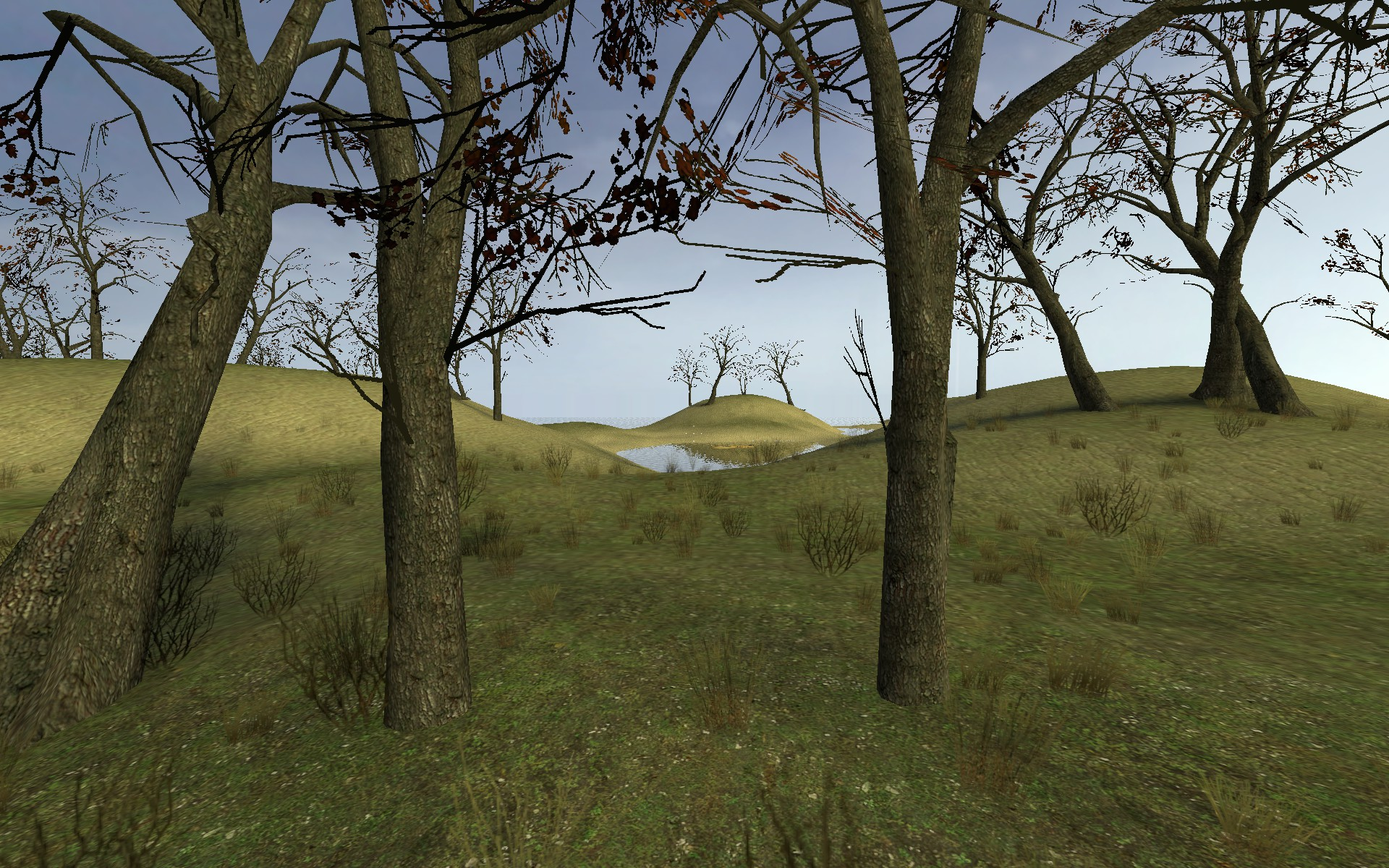
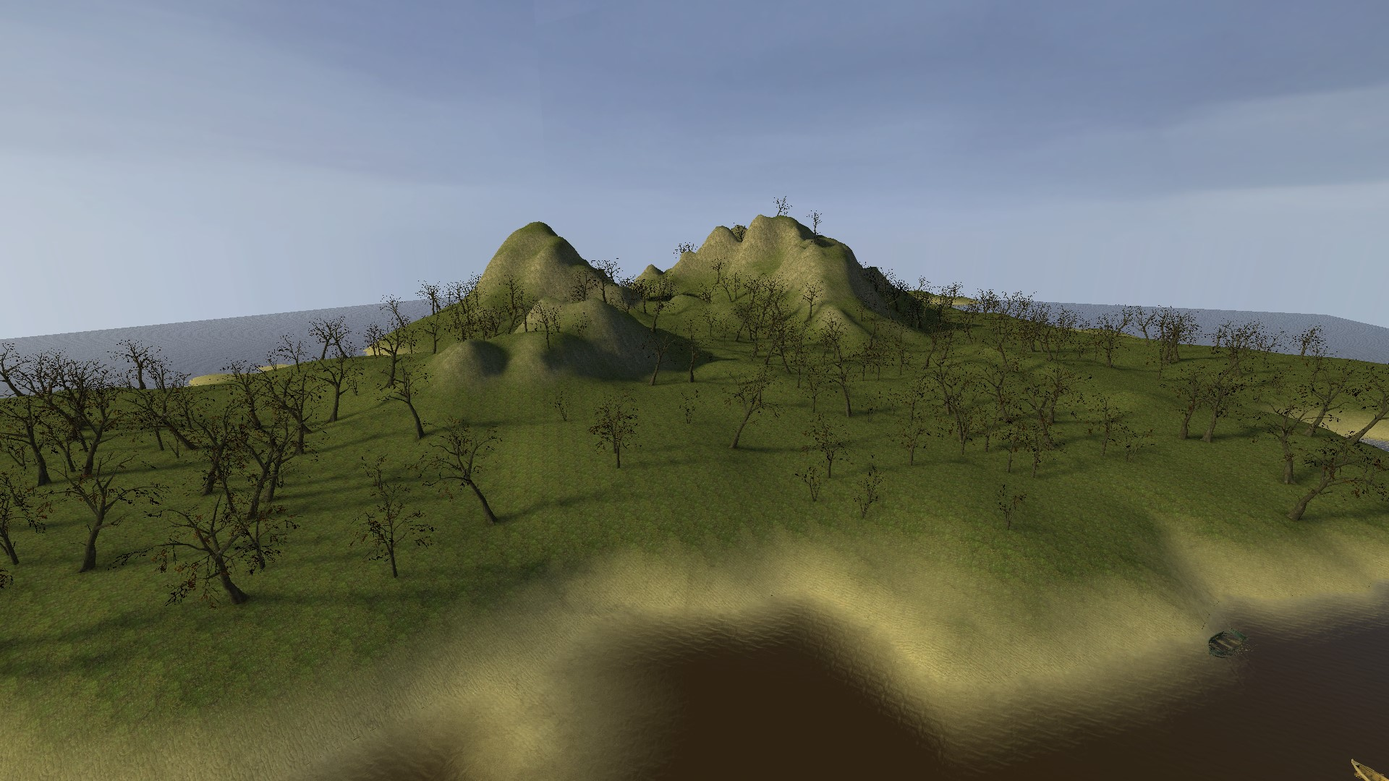
Expanded DisplacementMap to have visibility-blocking nodraw brushes.
Changed Heightmap example to show this off.

Also, added functions to get brushes in a DisplacementMap that jut above a certain height.

diff --git a/examples/heightmap.py b/examples/heightmap.py
@@ -16,7 +16,7 @@ import math
 
 
 def slope_alphas(dm):
-    """Set a DisplacementMap's alpha value based on it's slope and the water level"""
+    """Set a DisplacementMap's alpha value based on its slope and the water level"""
 
     # Calculate the alphas for the displacement map. We could have just as easily read this in from the image.
     for x in range(image_size - 1):
@@ -24,15 +24,22 @@ def slope_alphas(dm):
             h = dm[x, y]
             # Start with the assumption that this is straight sand
             a = 0
-            # If we're above the water, then the alpha value will equal the height above the water, meaning that areas
-            # 255 units above water-level will be pure grass
+            # If we're above the water, then the alpha value will equal the height above the water (* 2), meaning that
+            # areas 128 units above water-level will be pure grass
             if h > water_height:
-                a = h - water_height
+                a = (h - water_height) * 2
             if a > 255:
                 a = 255
-            # Subtract 3 times the angle (as 180 degrees = 255 alpha units) from the alpha value
-            # This way, steeper areas appear sandier.
-            a -= dm.get_slope((x, y)) * (255 / math.pi) * 3
+
+            # Get the angle of the slope here
+            slope_angle = math.degrees(dm.get_slope((x, y)))
+
+            # Add a sharp decrease in alpha around 45 degrees, so that unclimbable areas are visible
+            if slope_angle > 30 and slope_angle < 60:
+                a -= (slope_angle - 30) * 7
+            elif slope_angle >= 60:
+                a -= (slope_angle - 60) * 2 + 210
+
             if a < 0:
                 a = 0
             # Finally, we set the actual value to what we've determined
@@ -40,11 +47,13 @@ def slope_alphas(dm):
 
 def generate_scatter(dm):
     """Generate trees above the waterline, and boats near the shore."""
-    # This section places something on the surface every few units -- good for ensuring that the get_height method works
+    # This section places something on the surface every few units -- good for testing out the get_height method
     scatter_offset = 128
     for x in range((map_center[0] - map_size[0] // 2) + scatter_offset, (map_center[0] + map_size[0] // 2), scatter_offset):
         for y in range((map_center[1] - map_size[1] // 2) + scatter_offset, (map_center[1] + map_size[1] // 2),
                        scatter_offset):
+
+            slope_angle = math.degrees(dm.get_slope(dm.get_relative_position((x,y))))
             h = ground.get_height((x, y))
 
             if water_height - 64 < h < water_height - 32 and random.randrange(20) == 0:
@@ -52,8 +61,8 @@ def generate_scatter(dm):
                 base.PropPhysics(m, origin=types.Origin(x, y, water_height + 8),
                                  angles=types.Origin(0, random.randrange(360), 0),
                                  model="models/props_canal/boat001{0}.mdl".format(("a", "b")[random.randrange(2)]))
-            elif water_height + 128 < h and random.randrange(20) == 0:
-                # We have an area somewhat away from the shore, so we can put a tree here.
+            elif water_height + 128 < h and random.randrange(15) == 0 and slope_angle < 30:
+                # We have a flat area somewhat away from the shore, so we can put a tree here.
                 base.PropStatic(m, origin=types.Origin(x, y, h - 3),
                                 model="models/props_foliage/tree_deciduous_0{0}a.mdl".format(random.randrange(3) + 1),
                                 angles=types.Origin(0, random.randrange(360), 0), skin=1)
@@ -99,19 +108,21 @@ def create_helicopter(m):
 
 m = vmf.ValveMap()
 
-heightmap_range = 1024
+heightmap_range = 1024 * 4
 
 displacement_height_scale = heightmap_range / 255
 
-map_size = ((64 + 32) * 256, (64 + 32) * 256)
+displacements_per_side = 20
+
+# We want the size of displacements to be multiples of 1024 because that gives VVIS an easier time of it
+map_size = (1024*displacements_per_side, 1024*displacements_per_side)
 map_height = heightmap_range + (1024 * 2)
-water_height = 256
+water_height = 512
 
 # Environment and lighting
 # Sun angle	S Pitch	Brightness		Ambience
 # 0 225 0	 -25	 254 242 160 400	172 196 204 80
 
-displacements_per_side = 32
 
 d_x_size = map_size[0] / displacements_per_side
 d_y_size = map_size[1] / displacements_per_side
@@ -123,7 +134,7 @@ power = 3
 
 image_size = 2 ** power * displacements_per_side + 1
 
-heightmap_file = "examples/height.png"
+heightmap_file = "height4.png"
 
 # Open up the source image and resize it to be the number of displacement points
 image = Image.open(heightmap_file).resize((image_size, image_size), Image.BICUBIC).convert('L')
@@ -159,7 +170,7 @@ disp_org = types.Vertex(map_center[0], map_center[1], -16)  # types.Vertex(map_s
 # Create a DisplacementMap to act as the ground.
 ground = DisplacementMap(source=new_source, source_alphas=alphas, origin=disp_org,
                          size=types.Vertex(map_size[0], map_size[1], 32), x_subdisplacements=displacements_per_side,
-                         y_subdisplacements=displacements_per_side, power=power)
+                         y_subdisplacements=displacements_per_side, power=power, add_nodraw_brush=True)
 m.add_solid(ground)
 
 # We choose a texture that supports alpha blending, to show off that feature.
@@ -171,6 +182,10 @@ slope_alphas(ground)
 
 # Create the displacement brushes from the displacement map.
 ground.realize()
+
+# Change all the high displacements to a material that has rocks instead of sand. (This value is carefully selected)
+for block in ground.get_brushes_above_level(1096):
+    block.set_material("nature/blendrocksgrass006a")
 
 # Create the trees and boats.
 generate_scatter(ground)
@@ -194,12 +209,16 @@ m.add_solid(water)
 # Enclosing maps with big, open skyboxes like the one we just made is inefficient because we have a bunch of visleaves
 #   touching each other. Instead of letting vvis.exe check all of them, we just tell it they're all connected via
 #   a func_viscluster
-# (we create two, one at the top of the map, and one at the bottom. this is because the water brush splits the visleafs)
-for h in (map_height - 16, 16):
-    viscluster = base.FuncViscluster(m)
-    viscluster_brush = skybox.get_level_brush(h, 32)
-    viscluster_brush.set_material('tools/toolstrigger')
-    viscluster.children.append(viscluster_brush)
+viscluster = base.FuncViscluster(m)
+viscluster_brush = skybox.get_level_brush(map_height - 16, 32)
+viscluster_brush.set_material('tools/toolstrigger')
+viscluster.children.append(viscluster_brush)
+
+# We want to chop the visleaves in half, so that the mountains in the middle can actually block visibility.
+hint_brush = skybox.get_level_brush(1450,4)
+hint_brush.set_material("tools/toolsskip")
+hint_brush.bottom().material = "tools/toolshint"
+m.add_solid(hint_brush)
 
 
 # Add the spawnpoint, at ground level, at the center of the map
@@ -207,7 +226,9 @@ player_origin = types.Origin(map_center[0], map_center[1], ground.get_height(map
 spawn = base.InfoPlayerStart(m, origin=player_origin)
 suit = hl2.ItemSuit(m, origin=player_origin)
 
-airboat_spawn = (map_center[0] + 512, map_center[1])
+
+
+airboat_spawn = (map_center[0] + 650, map_center[1])
 airboat = hl2.PropVehicleAirboat(m, origin=types.Origin(airboat_spawn[0], airboat_spawn[1],
                                                         ground.get_height(airboat_spawn) + 32), EnableGun=1)
 

diff --git a/vmflib2/tools.py b/vmflib2/tools.py
@@ -160,7 +160,7 @@ class DisplacementMap:
     """
 
     def __init__(self, source, source_alphas=None, origin=types.Vertex(), size=types.Vertex(), x_subdisplacements=4,
-                 y_subdisplacements=4, power=3):
+                 y_subdisplacements=4, power=3, add_nodraw_brush=False):
         # This is the data we will use to build our displacements.
         self.source = source
         # This is the data we use to build the alpha map
@@ -171,6 +171,8 @@ class DisplacementMap:
         self.size = size
         # This is the number of displacements we will have along the x and y axis, respectively.
         self.sub_displacements = (x_subdisplacements, y_subdisplacements)
+        # This is whether we want to add nodraw brushes underneath the displacement to block visibility.
+        self.add_nodraw_brush = add_nodraw_brush
 
         if power not in (2, 3, 4):
             raise ValueError("Power of a DisplacementMap must be 2, 3, or 4, not {0}.".format(power))
@@ -191,6 +193,7 @@ class DisplacementMap:
 
         self.material = ""
         self.displacement_brushes = []
+        self.misc_brushes = []
 
     def __getitem__(self, item):
         return self.source[item]
@@ -250,7 +253,7 @@ class DisplacementMap:
         return c1 / n, c2 / n, c3 / n
 
     def get_slope(self, pos):
-        """Return the angle away from verticle that this 2D DM coordinate is facing"""
+        """Return the angle away from vertical that this 2D DM coordinate is facing"""
 
         return math.acos(utility.dot(self.get_surface_normals(pos), (0, 0, 1)))
 
@@ -285,6 +288,7 @@ class DisplacementMap:
 
                 x_range = forward_range
                 y_range = backwards_range
+
 
                 norms = []
                 for i in x_range:
@@ -333,11 +337,32 @@ class DisplacementMap:
                 # Store these in case they're needed.
                 floor.x_offset = x_offset
                 floor.y_offset = y_offset
+                floor.displacement_distances = dists
 
                 self.displacement_brushes.append(floor)
+                if self.add_nodraw_brush:
+                    lowest_height = int(min(map(min, dists))) - 1
+                    if lowest_height > 1:
+                        # Don't make any brushes that are too small.
+                        nodraw_brush = Block(types.Vertex(x_pos, y_pos, self.origin.z + 0.5 * (lowest_height + self.size[2])),
+                              (self.d_x_size, self.d_y_size, int(lowest_height)), "tools/toolsnodraw")
+                        self.misc_brushes.append(nodraw_brush)
+
+    def get_brushes_above_level(self, level):
+        """Returns all of the displacements that have points at a distance from the displacementmap origin at or above
+        the given level"""
+        if len(self.displacement_brushes) == 0:
+            raise ValueError("Displacement map must be realized before calling get_brushes_above_level()!")
+
+        out = []
+        for brush in self.displacement_brushes:
+            if max(map(max, brush.displacement_distances)) >= level:
+                out.append(brush)
+        return out
+
 
     def __repr__(self, tab_level=-1):
         out = ""
-        for b in self.displacement_brushes:
+        for b in self.displacement_brushes + self.misc_brushes:
             out += b.__repr__(tab_level)
         return out
